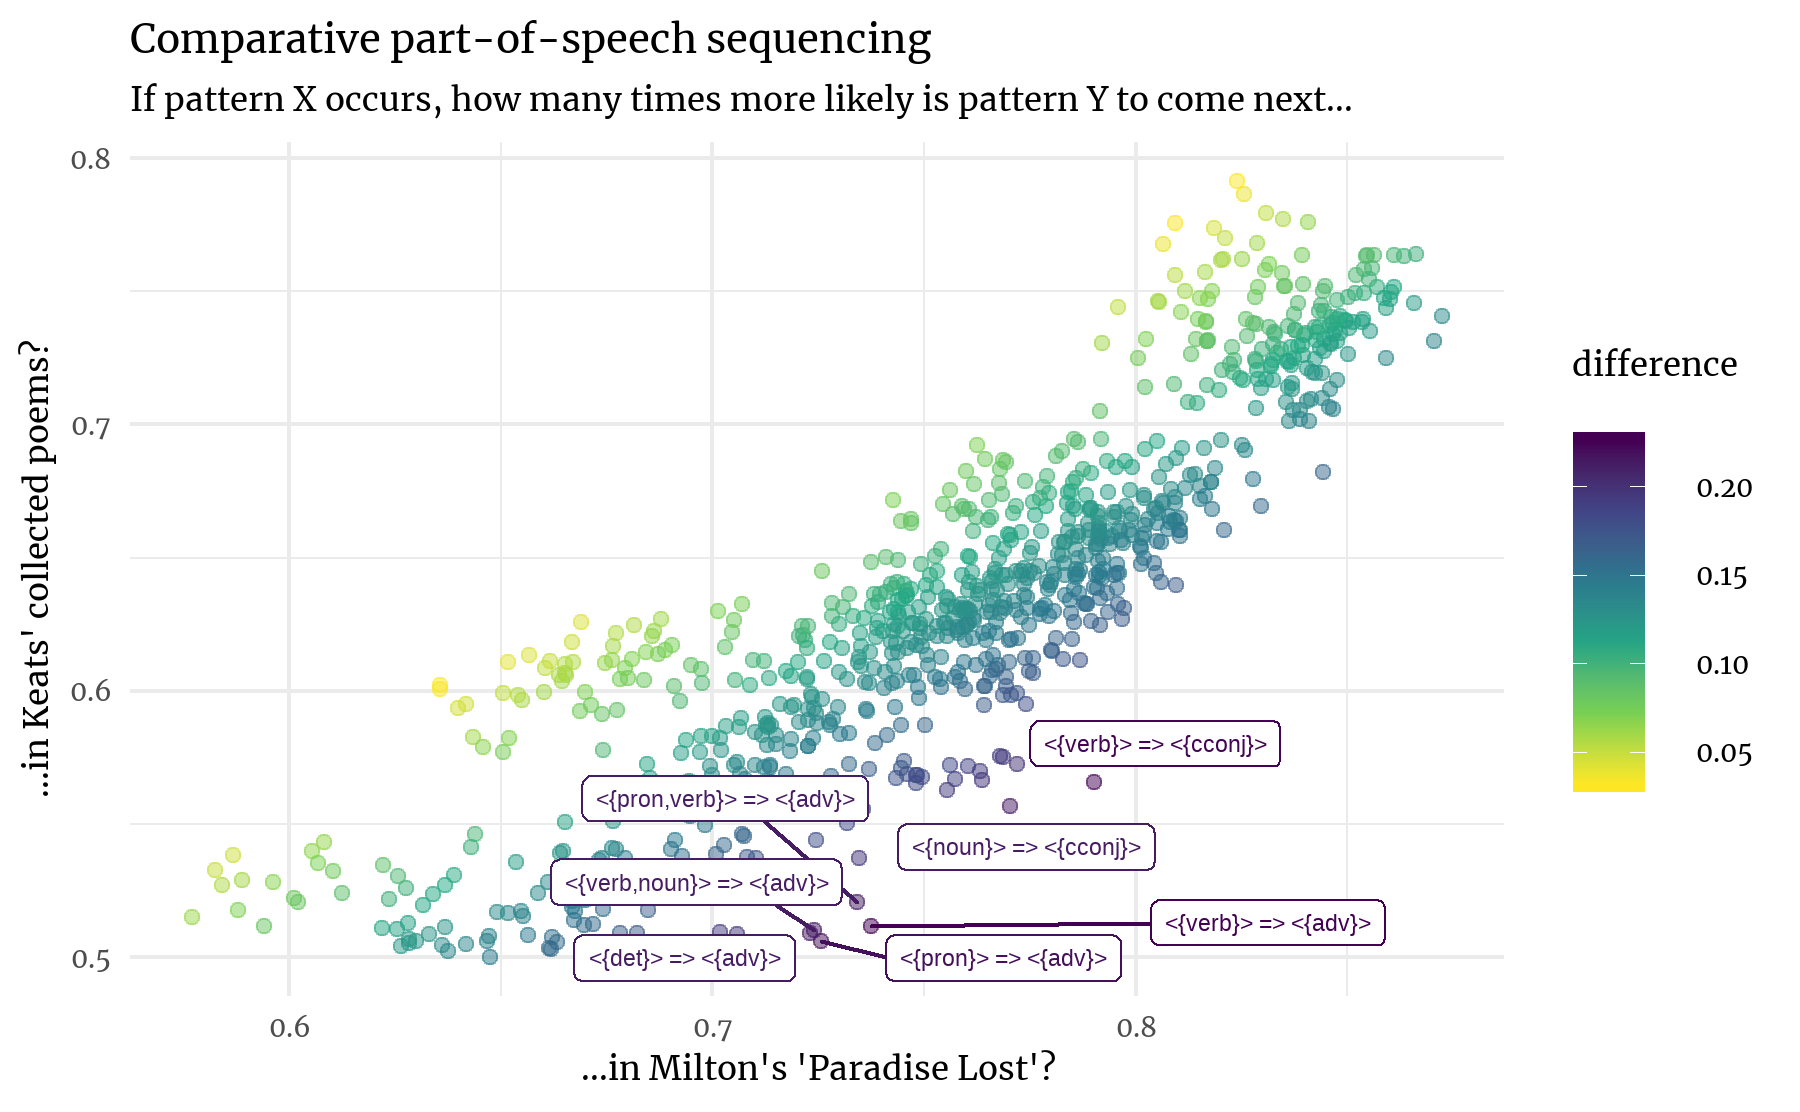
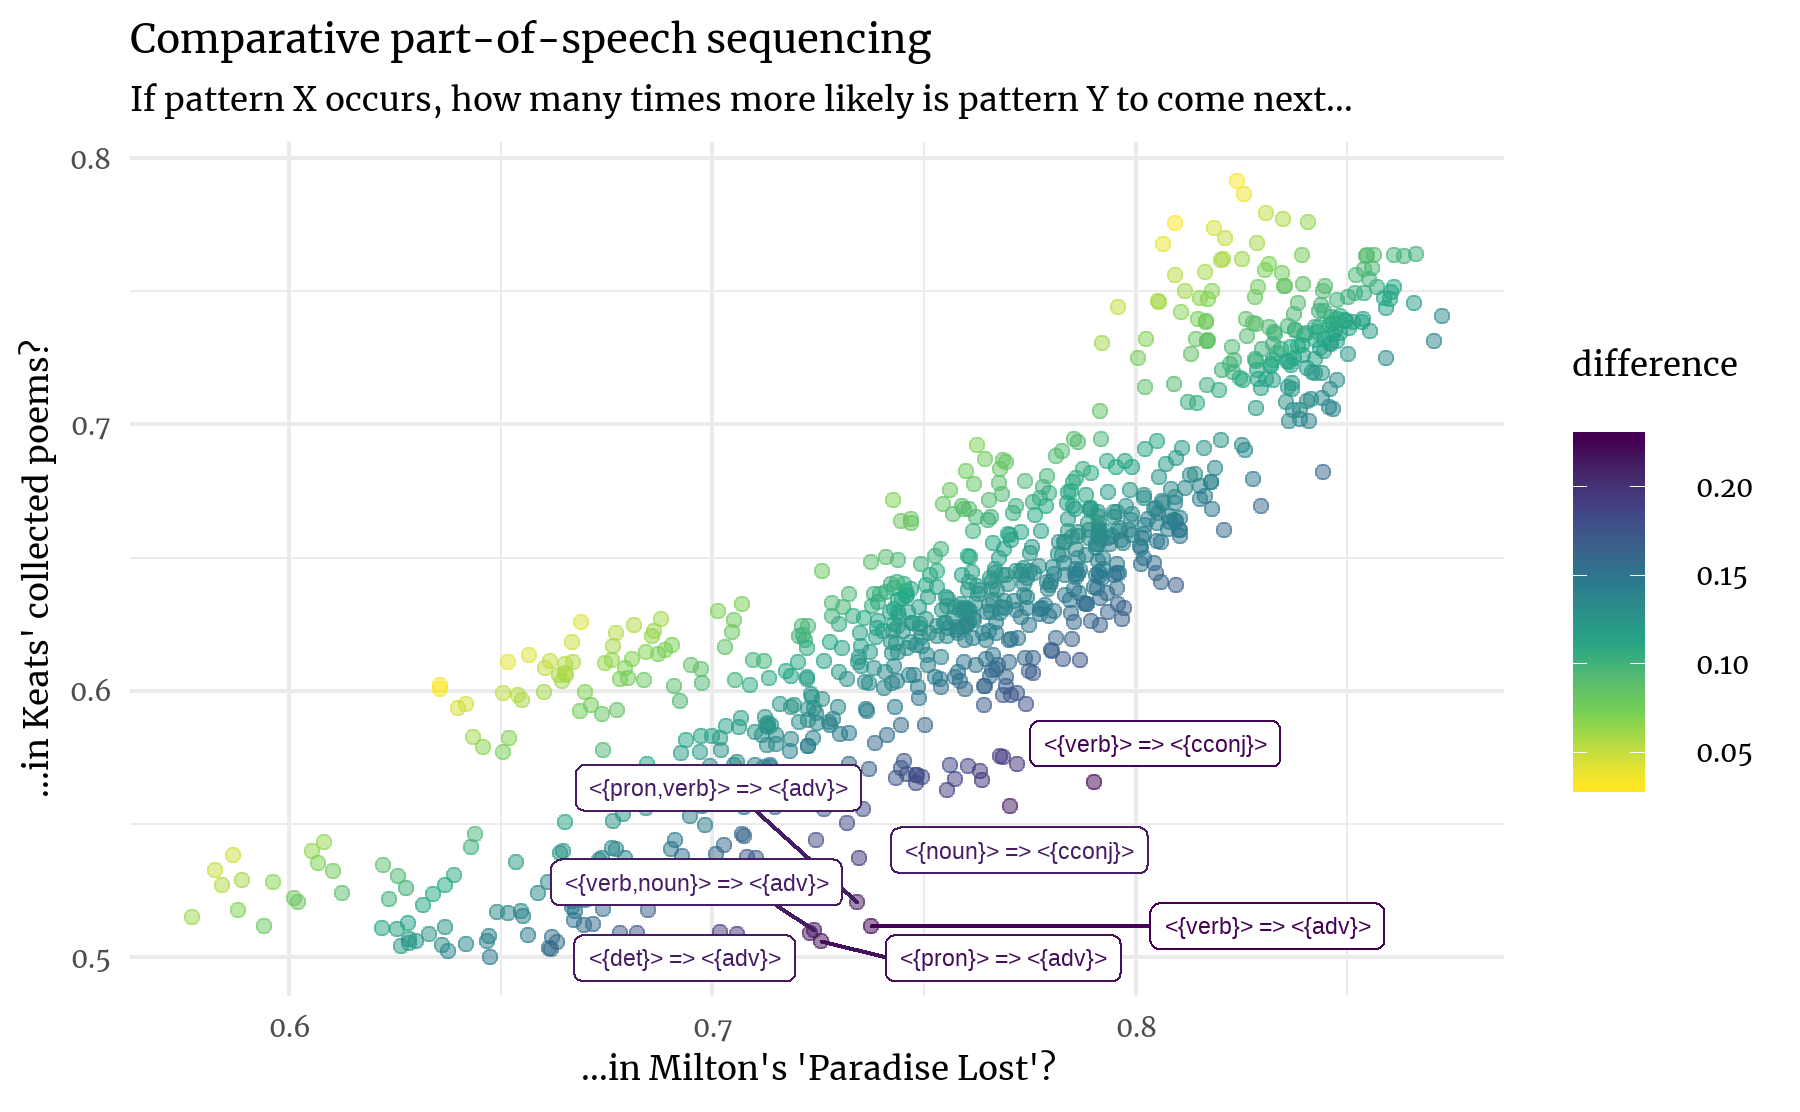
Change name

Changed region(s): [[0.3111, 0.6727, 0.4978, 0.7644], [0.5911, 0.795, 0.7778, 0.8561], [0.4978, 0.7338, 0.6533, 0.795]]

diff --git a/content/projects/2019-01-26-what-will-you-say-next.html b/content/projects/2019-01-26-what-will-you-say-next.html
@@ -1,8 +1,8 @@
 ---
-title: Parts of speech patterns
+title: What will you say next?
 author: J. Hagedorn
 date: '2019-01-26'
-slug: parts-of-speech-patterns
+slug: what-will-you-say-next
 tags:
   - prosody
 meta_img: /images/image.jpg
@@ -89,7 +89,7 @@ Figure 2: Part-of-speech sequences from Keats’ selected poems
 <li><em>How much more likely?</em>: Seeing the patterns on the left hand side makes it this many times more likely that we’ll see the pattern on the right occur next. More specifically, it is the probability that we actually see the patterns in sequence compared to the probability that we would see them together if they were unrelated. Technically, it’s called <code>lift</code>.</li>
 </ul>
 <p>In the plot below, each dot stands for a rule/pattern which is found in both poets’ work, using the <code>lift</code> measure described just above. The colors are based on difference, so that yellow means “this pattern is pretty similar between both” and purple means “this pattern differs most between them”. Some of those sequential part-of-speech patterns are shown for reference.</p>
-<p><img src="/projects/2019-01-26-parts-of-speech-patterns_files/figure-html/rule_scatter-1.png" /><!-- --></p>
+<p><img src="/projects/2019-01-26-what-will-you-say-next_files/figure-html/rule_scatter-1.png" /><!-- --></p>
 <p>Not much yet for this introductory exploration. We could pour in more poets, and include comparisons to instruction manuals, Audobon guides, religious texts, etc. And with all this, any pattern found would still likely have only a tinny resonance.</p>
 <p>In the afterword to his collection <em>Museum</em>, Jorge Luis Borges speculates that all of the wanderings which a person makes eventually trace a recognizable shape:</p>
 <blockquote>
